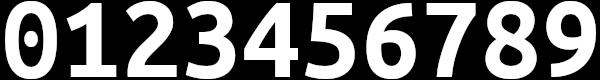
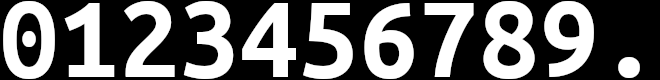
Factored out ui layout to it's own code

diff --git a/firmware/src/main.rs b/firmware/src/main.rs
@@ -2,7 +2,7 @@
 #![no_std]
 
 mod u8writer;
-mod fonts;
+mod layout;
 
 use embedded_graphics::mono_font::MonoTextStyleBuilder;
 use rtt_target::{rtt_init_print, rprintln};
@@ -160,17 +160,12 @@ const APP: () = {
 
   #[idle(resources=[gps,display])]
   fn idle(mut cx: idle::Context) -> ! {
-    let char_style = MonoTextStyle::new(&fonts::BIGNUMBER_FONT, Rgb565::WHITE);
-    let text_style = TextStyle::with_baseline(Baseline::Top);
-    let fill_style = PrimitiveStyle::with_fill(Rgb565::BLACK);
+    let layout = layout::Layout::new();
+
     let mut nmissing:u32 = 0;
 
-    Rectangle::new(Point::new(0,0), Size::new(480, 320))
-    .into_styled(fill_style)
-    .draw(cx.resources.display).unwrap();
-    
-    Text::with_text_style("123", Point::new(0,70), char_style, text_style)
-    .draw(cx.resources.display).unwrap();
+    layout.clear(cx.resources.display).unwrap();
+    layout.write_big_text(cx.resources.display, Point::new(2,4), "12.3").unwrap();
 
     loop {
       //rprintln!("loop");
@@ -189,21 +184,19 @@ const APP: () = {
         if let Some(gga) = ogga {
           buf.clear();
           write!(&mut buf, "Sats: {}", gga.sat_in_use).unwrap();
-          write_lcd_line(cx.resources.display, 0, buf.as_str());
-
+          layout.write_field(cx.resources.display, Point::new(0,0), 12, buf.as_str()).unwrap();
           buf.clear();
           write!(&mut buf, "Lat: {}", gga.latitude.as_f64()).unwrap();
-          write_lcd_line(cx.resources.display, 1, buf.as_str());
+          layout.write_field(cx.resources.display, Point::new(0,1), 12, buf.as_str()).unwrap();
 
           buf.clear();
           write!(&mut buf, "Long: {}", gga.longitude.as_f64()).unwrap();
-          write_lcd_line(cx.resources.display, 2, buf.as_str());
-
+          layout.write_field(cx.resources.display, Point::new(0,2), 12, buf.as_str()).unwrap();
         } else {
           nmissing = nmissing + 1;
           buf.clear();
           write!(&mut buf, "Sats: 0 (nm: {})", nmissing).unwrap();
-          write_lcd_line(cx.resources.display, 0, buf.as_str())
+          layout.write_field(cx.resources.display, Point::new(0,0), 12, buf.as_str()).unwrap();
         }
       }
     }
@@ -218,16 +211,3 @@ const APP: () = {
   }
 };
 
-
-fn write_lcd_line(display: &mut Display, line: i32, content: &str) {
-  static LINE_SIZE: i32 = 22;
-  let char_style = MonoTextStyleBuilder::new()
-    .font(&profont::PROFONT_18_POINT)
-    .text_color(Rgb565::WHITE)
-    .background_color(Rgb565::BLACK)
-    .build();
-  let text_style = TextStyle::with_baseline(Baseline::Top);
-  let origin = Point::new(0,LINE_SIZE * line);
-  Text::with_text_style(content, origin, char_style, text_style)
-    .draw(display).unwrap();
-}

diff --git a/firmware/src/layout.rs b/firmware/src/layout.rs
@@ -1,0 +1,89 @@
+use embedded_graphics::primitives::Rectangle;
+use crate::PrimitiveStyle;
+use embedded_graphics::{
+  image::ImageRaw,
+  mono_font::{mapping::StrGlyphMapping, DecorationDimensions, MonoFont, MonoTextStyle,MonoTextStyleBuilder},
+  pixelcolor::Rgb565,
+  prelude::*,
+  text::{Baseline, Text, TextStyle},
+};
+
+const BIGNUMBER_FONT: MonoFont = MonoFont {
+  image: ImageRaw::new_binary(include_bytes!("assets/bignumbers.raw"), 660),
+  glyph_mapping: &StrGlyphMapping::new("0123456789.", 0),
+  character_size: Size::new(60, 80),
+  character_spacing: 0,
+  baseline: 7,
+  underline: DecorationDimensions::default_underline(40),
+  strikethrough: DecorationDimensions::default_strikethrough(40),
+};
+
+pub struct Layout {
+  char_style: MonoTextStyle<'static, Rgb565>,
+  big_char_style: MonoTextStyle<'static, Rgb565>,
+  text_style: TextStyle,
+  bg_fill_style: PrimitiveStyle<Rgb565>,
+}
+
+const CHAR_WIDTH: i32 = 12;
+const CHAR_HEIGHT: i32 = 22;
+
+impl Layout {
+  pub fn new() -> Layout {
+    let char_style = MonoTextStyleBuilder::new()
+      .font(&profont::PROFONT_18_POINT)
+      .text_color(Rgb565::WHITE)
+      .background_color(Rgb565::BLACK)
+      .build();
+    let big_char_style = MonoTextStyleBuilder::new()
+      .font(&BIGNUMBER_FONT)
+      .text_color(Rgb565::WHITE)
+      .background_color(Rgb565::BLACK)
+      .build();
+    let text_style = TextStyle::with_baseline(Baseline::Top);
+    let bg_fill_style = PrimitiveStyle::with_fill(Rgb565::BLACK);
+    return Layout {
+      char_style,
+      big_char_style,
+      text_style,
+      bg_fill_style,
+    }
+  }
+
+  pub fn clear<D>(&self, display: &mut D) -> Result<(), D::Error>
+  where
+    D: DrawTarget<Color = Rgb565>
+  {
+    Rectangle::new(Point::new(0,0), Size::new(480, 320))
+    .into_styled(self.bg_fill_style)
+    .draw(display)
+  }
+
+  pub fn write_big_text<D>(&self, display: &mut D, cloc: Point, content: &str) -> Result<Point, D::Error>
+  where
+    D: DrawTarget<Color = Rgb565>
+  {
+    let loc  = Layout::char_point(cloc);
+    Text::with_text_style(content, loc, self.big_char_style, self.text_style)
+      .draw(display)
+  }
+
+  pub fn write_field<D>(&self, display: &mut D, cloc: Point, width: i32, content: &str) -> Result<(), D::Error>
+  where
+    D: DrawTarget<Color = Rgb565>
+  {
+    let loc  = Layout::char_point(cloc);
+    let p = Text::with_text_style(content, loc, self.char_style, self.text_style)
+      .draw(display)?;
+
+    // TODO FILL EXTRA BACKGROUND
+    Result::Ok(())
+  }
+
+  fn char_point(loc:Point) -> Point {
+    Point{
+      x: 4 + loc.x * CHAR_WIDTH, 
+      y: 10 + loc.y * CHAR_HEIGHT
+    }
+  }
+}
